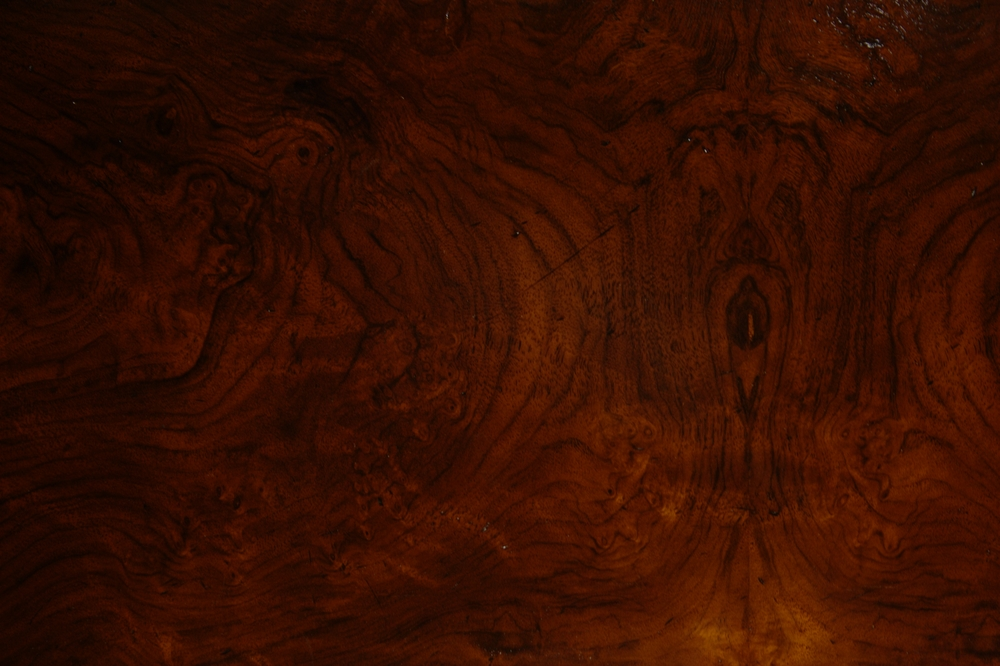
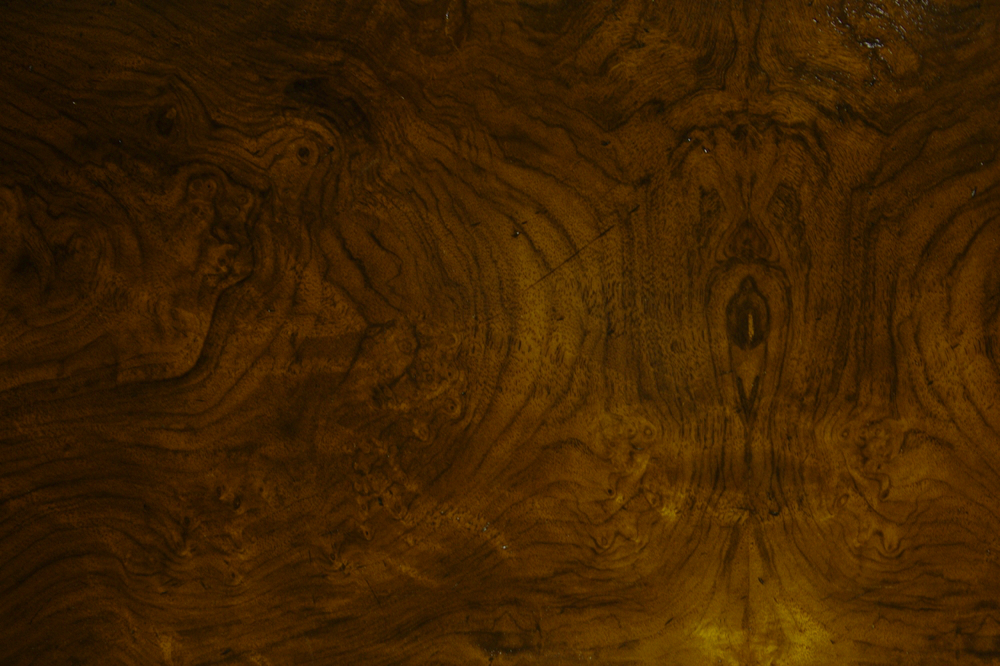
Color adjustments

diff --git a/assignment6/Assignment6.cpp b/assignment6/Assignment6.cpp
@@ -193,9 +193,9 @@ std::shared_ptr<Scene> Assignment6::CreateScene() const
     newScene->AddLight(highPointLight);
     
     std::shared_ptr<PointLight> lowPointLight = std::make_shared<PointLight>();
-    lowPointLight->SetPosition(glm::vec3(0.f, 5.0101f, -2.f));
+    lowPointLight->SetPosition(glm::vec3(0.f, 7.f, -2.f));
     lowPointLight->SetLightColor(glm::vec3(0.6f, 0.6f, 0.6f));
-    //newScene->AddLight(lowPointLight);
+    newScene->AddLight(lowPointLight);
     
     std::shared_ptr<AreaLight> areaLight = std::make_shared<AreaLight>(glm::vec2(.8f, .8f));
     areaLight->SetPosition(glm::vec3(1.3f, 3.7f, 2.2f));
@@ -238,7 +238,7 @@ std::shared_ptr<class Renderer> Assignment6::CreateRenderer(std::shared_ptr<Scen
 int Assignment6::GetSamplesPerPixel() const
 {
     // ASSIGNMENT 6 TODO: Change the '1' here to increase the maximum number of samples used per pixel. (Part 1).
-    return 6;
+    return 1;
 }
 
 bool Assignment6::NotifyNewPixelSample(glm::vec3 inputSampleColor, int sampleIndex)
